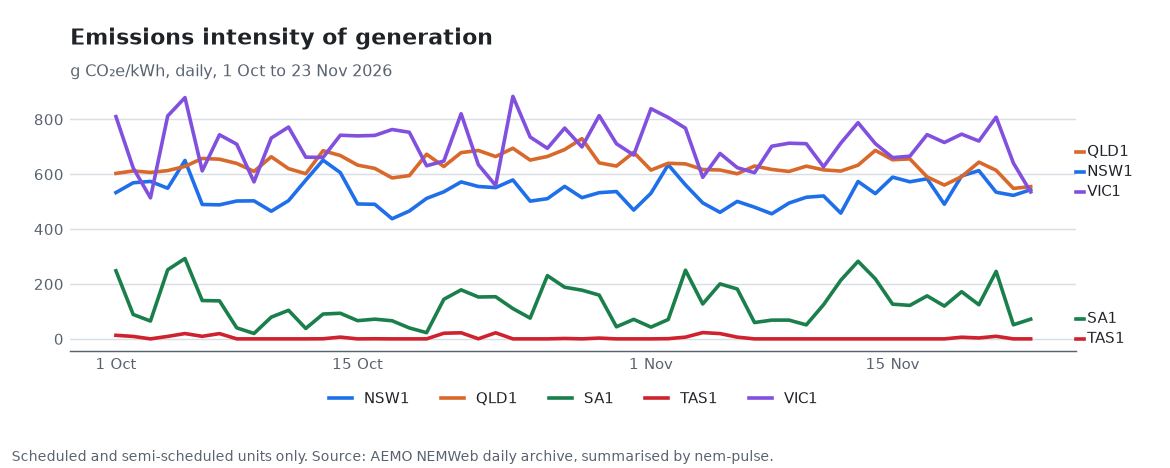
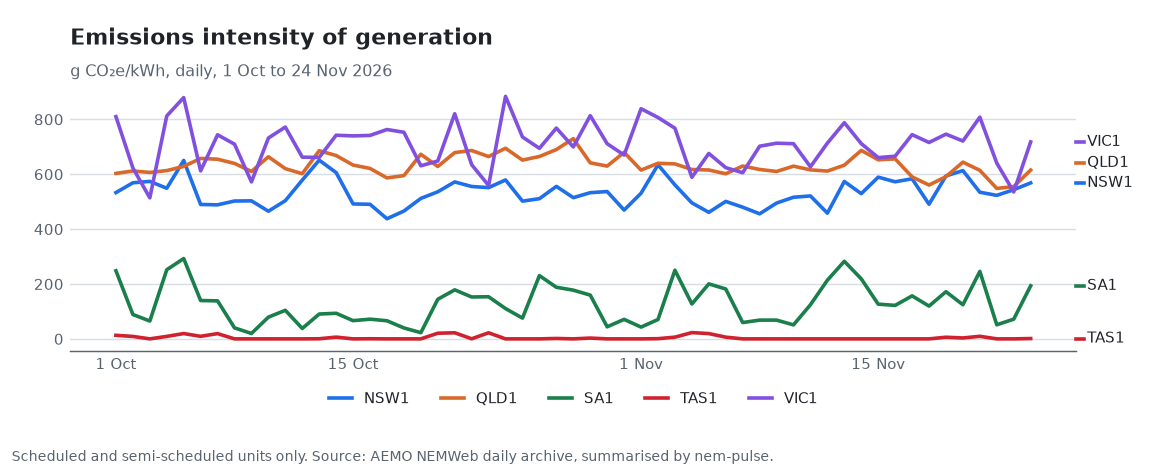
data: 2026-11-26

diff --git a/README.md b/README.md
@@ -15,16 +15,16 @@ I built it to try the "git scraping" pattern on grid data: the repository is the
 ## Latest
 
 <!-- PULSE:START -->
-_Updated for 2026-11-23 (NEM time)._
+_Updated for 2026-11-24 (NEM time)._
 
 | Region | Avg price | Renewables | Intensity | Negative price intervals |
 |---|---:|---:|---:|---:|
-| NSW1 | $84/MWh | 34% | 544 g/kWh | 16 |
-| QLD1 | $56/MWh | 34% | 555 g/kWh | 33 |
-| VIC1 | $9/MWh | 54% | 535 g/kWh | 120 |
-| SA1 | $18/MWh | 83% | 72 g/kWh | 126 |
-| TAS1 | $28/MWh | 100% | 0 g/kWh | 107 |
-| NEM | $56/MWh | 44% | 502 g/kWh | 20 |
+| NSW1 | $99/MWh | 33% | 568 g/kWh | 0 |
+| QLD1 | $94/MWh | 28% | 615 g/kWh | 0 |
+| VIC1 | $68/MWh | 34% | 718 g/kWh | 0 |
+| SA1 | $29/MWh | 50% | 193 g/kWh | 115 |
+| TAS1 | $74/MWh | 100% | 1 g/kWh | 0 |
+| NEM | $89/MWh | 35% | 586 g/kWh | 0 |
 
 ### Recent records
 
